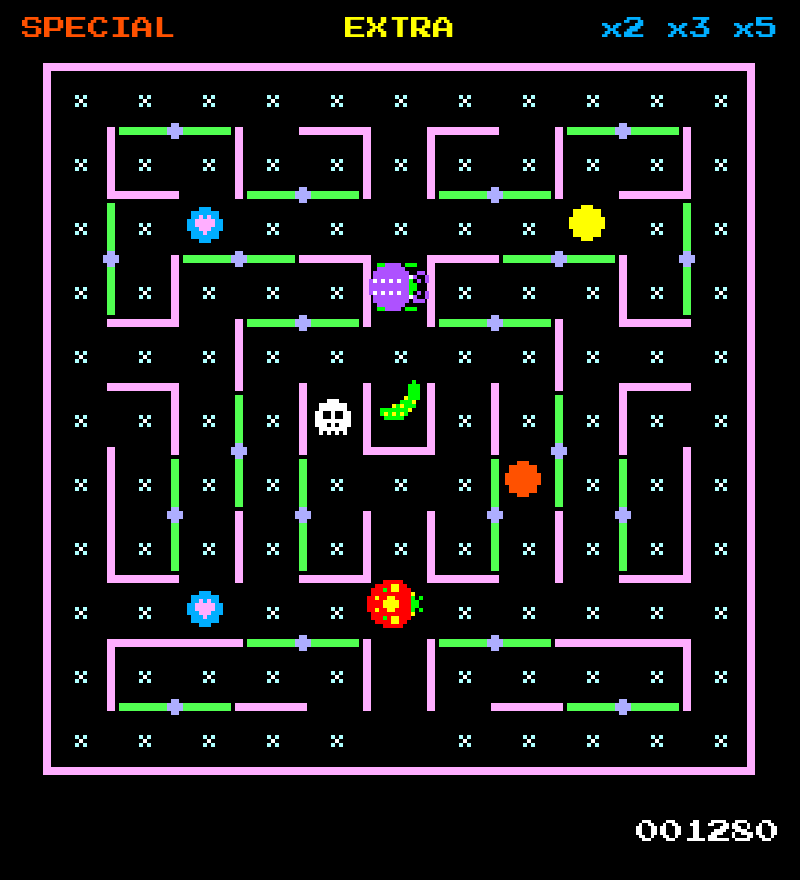
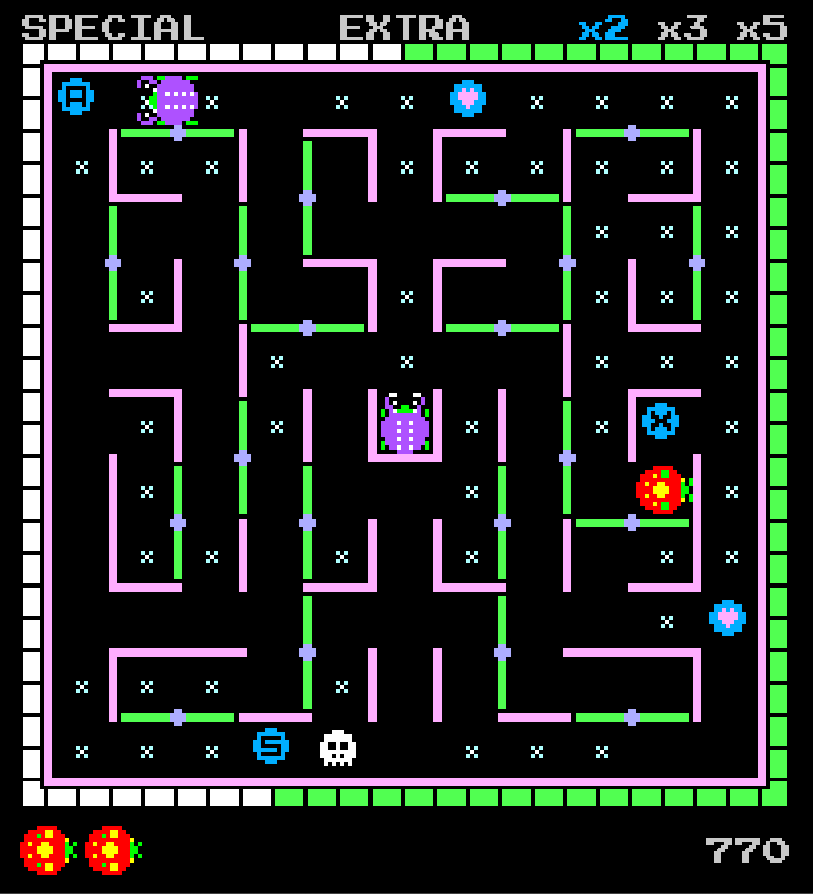
Refresh README gameplay and transition screenshots

diff --git a/README.md b/README.md
@@ -24,6 +24,10 @@ The game is currently intended for **desktop browsers with keyboard or gamepad c
   <img src="doc/images/readme_gameplay.png" alt="Lady Bug web gameplay screen" width="390">
 </p>
 
+<p align="center">
+  <img src="doc/images/readme_part_screen.png" alt="Lady Bug web PART transition screen" width="390">
+</p>
+
 ## About the project
 
 This project is a web-oriented rewrite of the Godot remake of **Lady Bug**. The goal is to keep the game playable in a browser while preserving the arcade feel: grid-based maze movement, rotating gates, collectible timing, enemy release through the border timer, scoring rules, bonus vegetables and the SPECIAL / EXTRA word mechanics.
